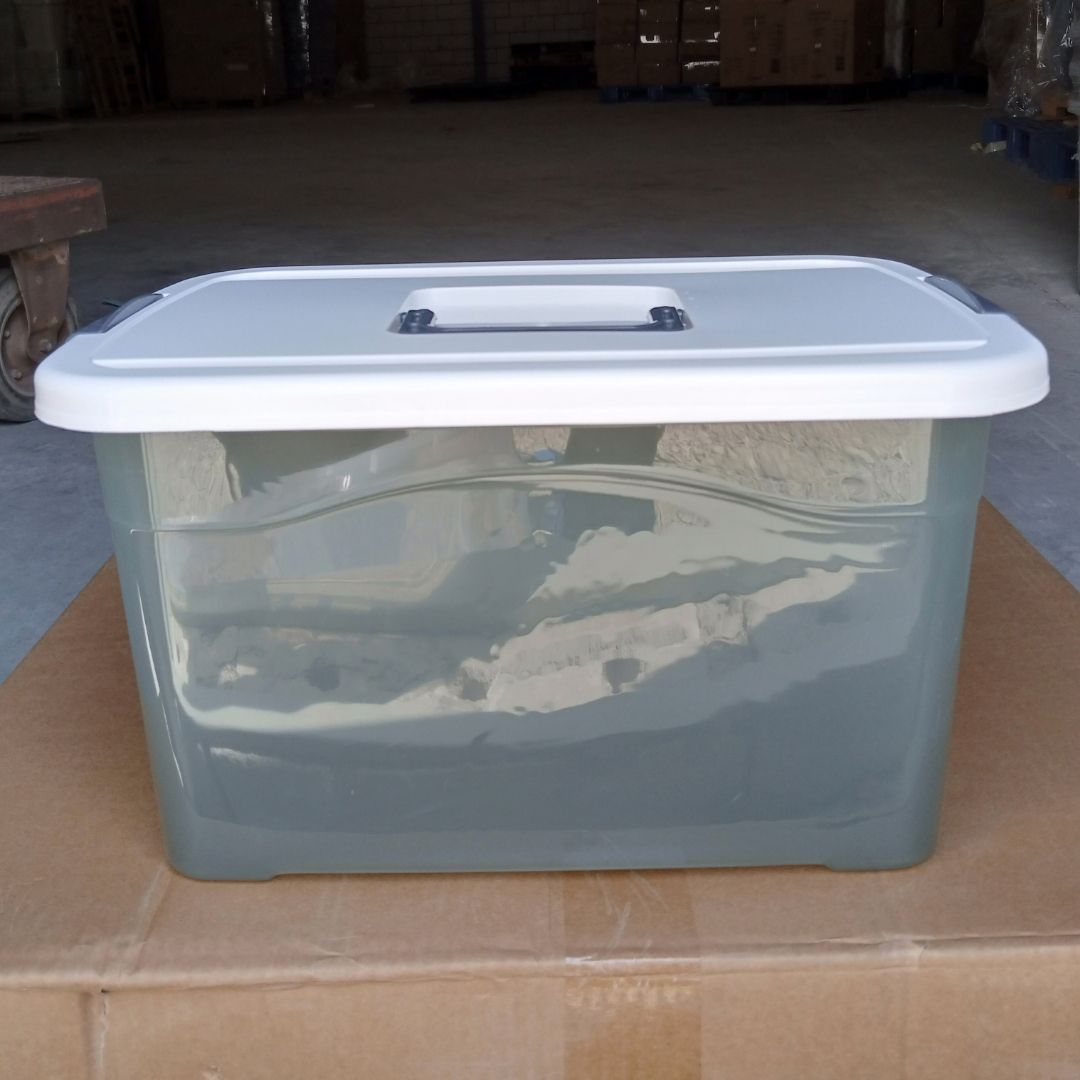
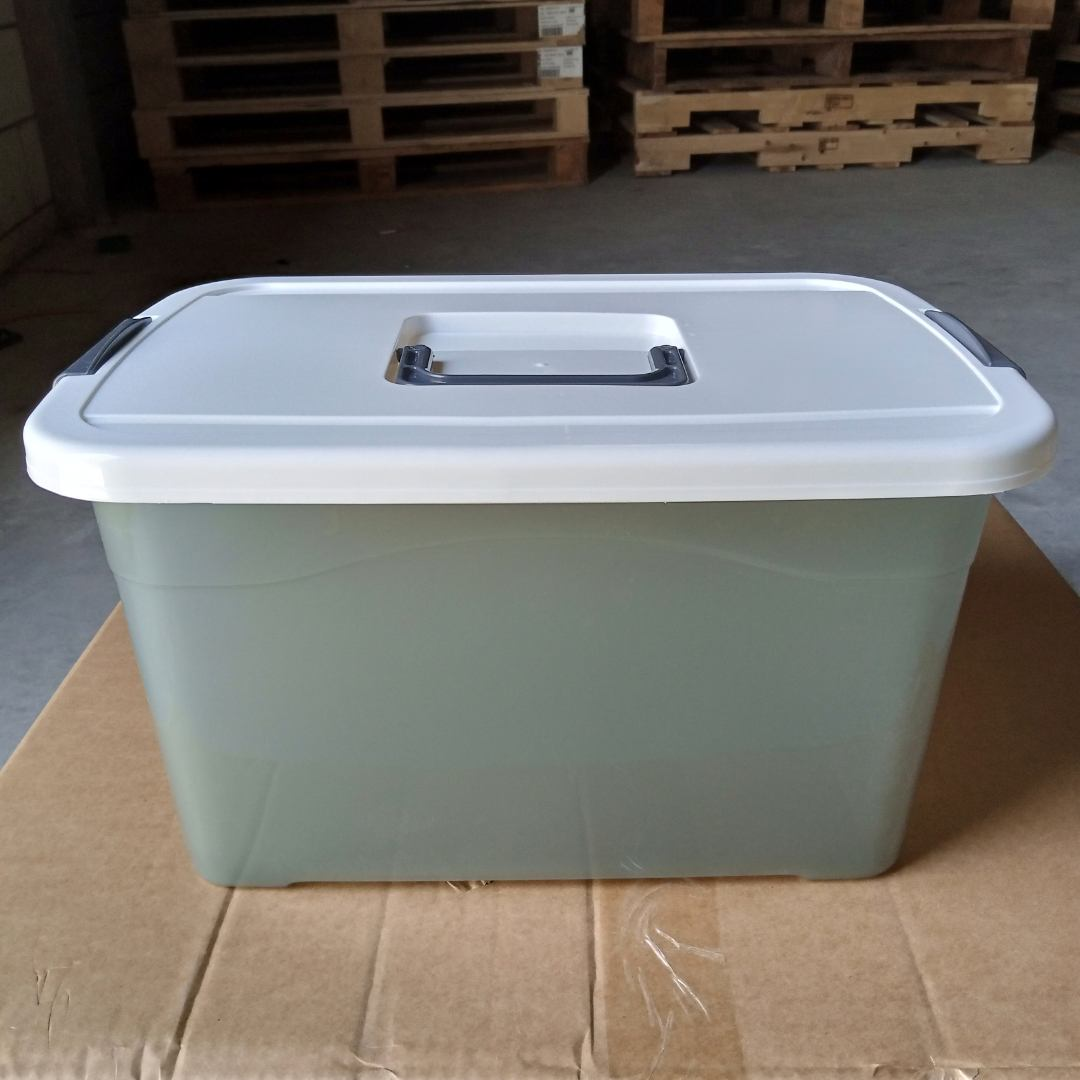
Update

diff --git a/components/pos-system.js b/components/pos-system.js
@@ -9,7 +9,6 @@ export default function PosSystem(){
  const barcode_pos_system_data_display = document.getElementById('barcode-pos-system-data-load');
  const input = document.getElementById('pos-barcode-input'); 
  const posBarcodeInputBtn = document.getElementById('pos-barcode-input-btn');
- const poSbarcodeBtn = document.getElementById('pos-barcode-btn');
 
 // Pos barcode-input-btn click event
  posBarcodeInputBtn.addEventListener('click',()=>{ 
@@ -18,27 +17,19 @@ export default function PosSystem(){
    filterDataHandler(input.value); 
  });
 
-// Search Pos btn click event
- poSbarcodeBtn.addEventListener('click',()=>{ 
-  barcode_pos_system_data_display.innerHTML = '';
-   barcodeScanHandler();
- });
-
 // Barcode Scan Handler function
  function barcodeScanHandler(){
 // ------------------------------>
 input.addEventListener("keydown", function(e) {
-    if (e.key === "Enter") {  // scanner enter দিলে
-        let code = input.value.trim();
-        if (code) {
-           document.getElementById("result").innerText = "Scanned: " + code; 
-
-   filterDataHandler(code);
-
-            // console.log("Scanned:", code);
-          input.value = code;
-        }
+ if(e.key === "Enter") {  // scanner enter দিলে 
+   input.value = '';
+  let code = input.value.trim();
+  if (code) {
+ document.getElementById("result").innerText = "Scanned: " + code; 
+   input.value = code;
+  filterDataHandler(code);
     }
+  }
 });
 // ------------------------------>
 } // barcodeScanHandler  
@@ -46,9 +37,7 @@ input.addEventListener("keydown", function(e) {
 // -------------------------------------->
 // filterDataHandler Function
 const filterDataHandler = (barcodeNumber) =>{
-
  const filterProducts = products.filter((product,index)=> 
-
    product.product_id == barcodeNumber || 
    product.barcode == barcodeNumber || 
    product.noon_barcode == barcodeNumber ||
@@ -61,16 +50,20 @@ const filterDataHandler = (barcodeNumber) =>{
    return barcode_pos_system_data_display.innerHTML = `<div class="text-center red mt-30"><h1>No Product Found!</h1></div>`;
  }
 
- filterProducts.map((product,index)=> 
+ input.value = '';
 
+ filterProducts.map((product,index)=> 
   barcode_pos_system_data_display.innerHTML += `
-    <div>
+    <div class="lg-flex gap-15">
+    <!------------->
+     <div class="w-100-pr">
        <h2 class="p-10 m-3 radius-3">Product no: ${product.product_id}</h2>
-       <!------------->
        <img class="w-100-pr radius-5" src="${product.image}">
-       <!------------->
+     </div>
+    <!------------->
+     <div class="w-100-pr fs-18">
        <p class="sky ml-5 mt-5">Product Name:</p>
-       <h3 class="p-10 m-3 radius-3">${product.product_name}</h3>
+       <h3 class="p-10 lg-fs-25 m-3 radius-3">${product.product_name}</h3>
        <p class="border-1 -blue-4"></p>
        <!------------->
        <p class="sky ml-5 mt-5">Barcode:</p>
@@ -102,6 +95,7 @@ const filterDataHandler = (barcodeNumber) =>{
        <!------------->
        <p class="sky ml-5 mt-5">Description:</p>
        <p class="p-10 m-3 radius-3">${product.description}</p>
+     </div>
     </div>
  `);
 
@@ -112,13 +106,10 @@ const filterDataHandler = (barcodeNumber) =>{
  return(`
 <!--------------->
   <section> 
-   <div class="w-90-pr flex gap-10 justify-between m-20">
-   <div class="flex gap-3">
-    <input class="input" id="pos-barcode-input" type="text" name="searchinput" placeholder="Barcode" autofocus>
+   <div class="w-95-pr flex gap-10 justify-between m-20">
+   <div class="flex w-100-pr gap-3">
+    <input class="input" id="pos-barcode-input" type="text" name="searchinput" placeholder="Barcode">
     <button id="pos-barcode-input-btn" class="btn-sm h-40">OK</button>
-   </div>
-   <div>
-    <button class="btn-sm danger ml-3" id="pos-barcode-btn">Scan POS Device</button>
    </div>
    </div>  
   </section> 
@@ -129,12 +120,11 @@ const filterDataHandler = (barcodeNumber) =>{
   </section>
 
 <!--------------->
- <section>
+ <section class="mb-50 mt-10">
   <div class="m-20">
    <p id="result"></p>
   </div>
  </section>
-
 
   `);
 }

diff --git a/components/search-barcode-by-camera.js b/components/search-barcode-by-camera.js
@@ -64,13 +64,16 @@ const filterDataHandler = (barcodeNumber) =>{
  filterProducts.map((product,index)=> 
 
   barcode_camera_data_display.innerHTML += `
-    <div>
-       <h2 class="p-10 m-3 radius-3">Product no: ${product.product_id}</h2>
-       <!------------->
-       <img class="w-100-pr radius-5" src="${product.image}">
-       <!------------->
+    <div class="lg-flex gap-20">
+    <!------------->
+     <div class="w-100-pr">
+      <h2 class="p-10 m-3 radius-3">Product no: ${product.product_id}</h2>
+      <img class="w-100-pr radius-5" src="${product.image}">
+     </div>
+    <!------------->
+     <div class="w-100-pr fs-18">
        <p class="sky ml-5 mt-5">Product Name:</p>
-       <h3 class="p-10 m-3 radius-3">${product.product_name}</h3>
+       <h3 class="p-10 lg-fs-25 m-3 radius-3">${product.product_name}</h3>
        <p class="border-1 -blue-4"></p>
        <!------------->
        <p class="sky ml-5 mt-5">Barcode:</p>
@@ -102,6 +105,7 @@ const filterDataHandler = (barcodeNumber) =>{
        <!------------->
        <p class="sky ml-5 mt-5">Description:</p>
        <p class="p-10 m-3 radius-3">${product.description}</p>
+     </div>
     </div>
  `);
 
@@ -113,7 +117,7 @@ const filterDataHandler = (barcodeNumber) =>{
 <!--------------->
   <section> 
    <div class="w-90-pr flex gap-10 justify-between m-20">
-   <div class="flex gap-3">
+   <div class="flex w-90-pr gap-3">
     <input class="input" id="barcode-input" type="text" name="searchinput" placeholder="Barcode">
     <button id="barcode-input-btn" class="btn-sm h-40">OK</button>
    </div>
@@ -125,7 +129,7 @@ const filterDataHandler = (barcodeNumber) =>{
   </section> 
 
 <!--------------->
-  <section>
+  <section class="mb-50">
    <div class="w-90-pr mx-auto" id="barcode-camera-data-load"></div>
   </section>
 

diff --git a/components/search-product.js b/components/search-product.js
@@ -36,16 +36,16 @@ const dataFunction = (barcodeNumber) =>{
  filterProducts.map((product,index)=> 
 
    document.getElementById('search-product-data-load').innerHTML += `
-    <div class="md-flex gap-10">
-     <div class="w-80-pr">
+    <div class="lg-flex gap-10">
+     <div class="w-100-pr">
        <h2 class="p-10 m-3 radius-3">Product no: ${product.product_id}</h2>
        <!------------->
-       <img class="w-95-pr radius-5" src="${product.image}">
+       <img class="w-100-pr radius-5" src="${product.image}">
      </div>
-     <div>
+     <div class="w-100-pr fs-18">
        <!------------->
        <p class="sky ml-5 mt-5">Product Name:</p>
-       <h2 class="p-10 m-3 radius-3">${product.product_name}</h2>
+       <h2 class="p-10 lg-fs-25 m-3 radius-3">${product.product_name}</h2>
        <p class="border-1 -blue-4"></p>
        <!------------->
        <p class="sky ml-5 mt-5">Barcode:</p>
@@ -98,7 +98,7 @@ const dataFunction = (barcodeNumber) =>{
    </div>  
   </section> 
 
-  <section>
+  <section class="mb-50">
    <div class="w-90-pr mx-auto" id="search-product-data-load"></div>
   </section>
 

diff --git a/components/products-display.js b/components/products-display.js
@@ -2,7 +2,7 @@ import products from "./products-data.js";
 
 export default function productsDisplay(){ 
  return(` 
-  <section>
+  <section class="mb-50">
    <div class="container w-100-pr mx-auto" id="product-display"> 
   ${ 
    `<div class="mt-11">
@@ -12,15 +12,15 @@ export default function productsDisplay(){
   products.map((product,index)=>
      `<div class="content m-20 shadow-10 p-10 radius-10">
      <!------------>
-    <div class="md-flex gap-10">
-     <div>
+    <div class="lg-flex gap-10">
+     <div class="w-100-pr">
        <h3 class="p-10 mb-10 radius-3">Product no: ${index + 1}</h3>
        <img class="w-95-pr radius-5" src="${product.image}">
      </div>
     <!------------>
-     <div>
+     <div class="w-100-pr fs-18">
        <p class="green ml-5 mt-5">Product Name:</p>
-       <h2 class="p-10 m-3 radius-3">${product.product_name}</h2>
+       <h2 class="p-10 lg-fs-25 m-3 radius-3">${product.product_name}</h2>
        <p class="border-1 -blue-4"></p>
        <!------------>
        <p class="green ml-5 mt-5">Product Barcode:</p>

diff --git a/components/products-data.js b/components/products-data.js
@@ -41,28 +41,28 @@ const products = [
 {
  "product_id":"4",
  "product_name": "3-Tier Multipurpose Rolling Shelves Cart Organizer White 83x53.5x32cm concept_home",
- "barcode": "",
+ "barcode": "6287015356979",
  "partnerSku": "044-08-4359B-02",
  "sku": "ZD5EB47809C9CCDB35548Z-1",
  "packing": "Roll",
  "color": "White",
- "noon_barcode": "6287015356979",
+ "noon_barcode": "",
  "amazon_barcode": "",
  "image":"../images/6287015356979.jpg",
- "description": "359B"
+ "description": "359B 3 Rack Trolly - White"
 },
 {
  "product_id":"5",
  "product_name": "3-Tier Multipurpose Rolling Shelves Cart Organizer Black 83x53.5x32cm concept_home",
- "barcode": "",
+ "barcode": "6287015359031",
  "partnerSku": "044-08-4359B-01",
  "sku": "Z0D3FD1EB8D17AB5B29CDZ-1",
  "packing": "Roll",
  "color": "Black",
- "noon_barcode": "6287015359031",
+ "noon_barcode": "",
  "amazon_barcode": "X002FINPKZ",
  "image":"../images/6287015359031.jpg",
- "description": "359B"
+ "description": "359B 3 Rack Trolly - Black"
 },
 {
  "product_id":"6",

diff --git a/components/navbar.js b/components/navbar.js
@@ -6,7 +6,7 @@ export default function navbar(){
       <ul class="p-10 ml-10">
        <li class="align-center"><a href="home.html"><img class="w-25" src="../icons/home-white.png"></a></li>
       </ul>
-      <ul class="w-90-pr flex justify-around p-10 md-fs-18 bold">
+      <ul class="w-95-pr flex justify-around p-10 md-fs-16 bold">
        <li class="align-center"><a class="white" href="search-product.html">Search</a></li>
        <li class="align-center"><a class="white" href="products-display.html">Products</a></li>
        <li class="align-center"><a class="white" href="search-barcode-by-camera.html">Scan Camera</a></li>
